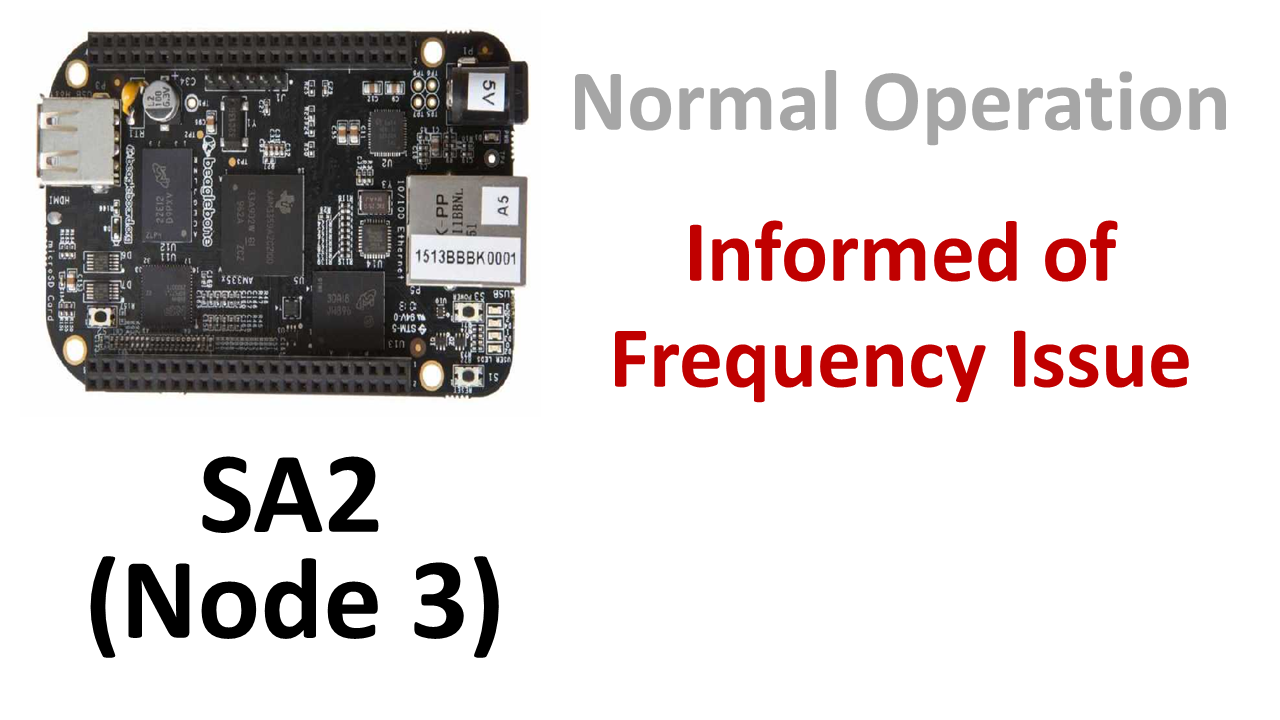
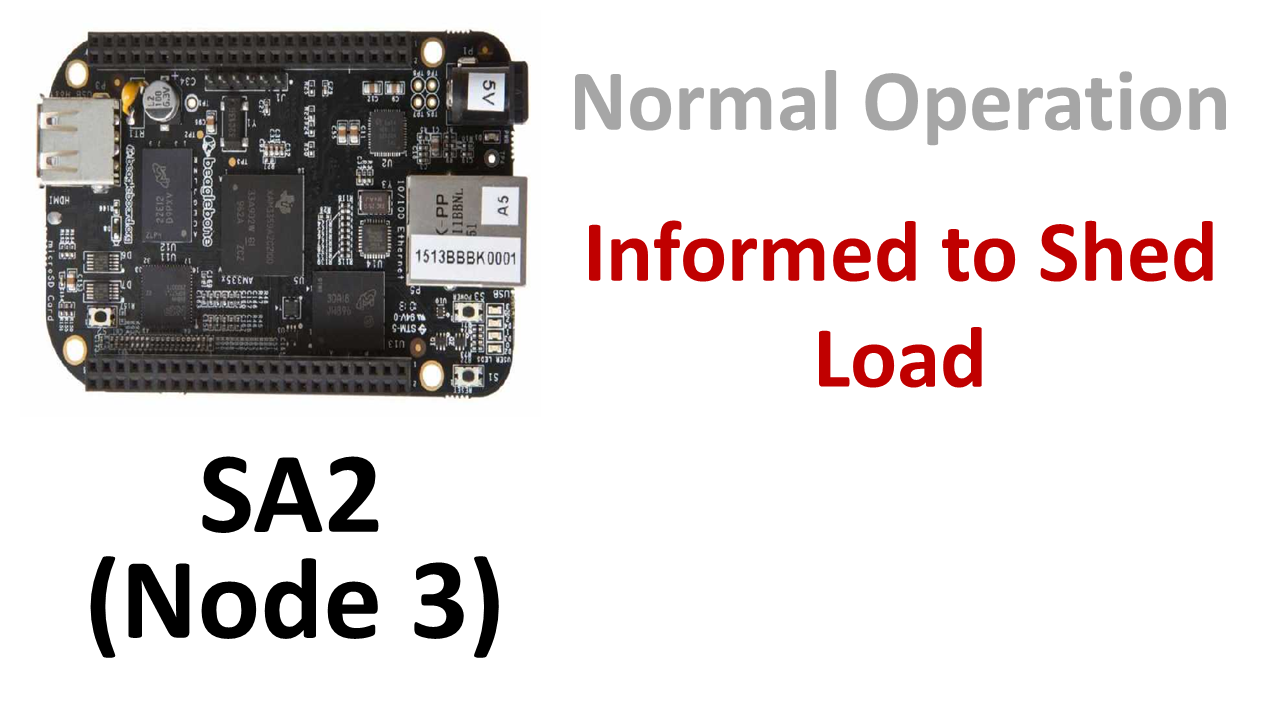
Added stuff

Changed region(s): [[0.4375, 0.3056, 0.9688, 0.3972], [0.4688, 0.4583, 0.9375, 0.55]]

diff --git a/GUI/display_graph.py b/GUI/display_graph.py
@@ -15,6 +15,11 @@ NORMAL_IMAGE = "../Data/normal_state.png"
 ALERT_IMAGE = "../Data/alert_state.png"
 
 WSU_LOGO = "Arpa_demo_nodes/WSU_Logo.png"
+
+GA1_IMAGE = "Arpa_demo_nodes/Slide1.PNG"
+SA1_IMAGE = "Arpa_demo_nodes/Slide2.PNG"
+SA2_IMAGE = "Arpa_demo_nodes/Slide3.PNG"
+
 GA1_NORMAL = "Arpa_demo_nodes/Slide1.PNG"
 GA1_ALERT = "Arpa_demo_nodes/Slide2.PNG"
 GA1_STABLE = "Arpa_demo_nodes/Slide3.PNG"
@@ -27,7 +32,7 @@ SA2_STABLE = "Arpa_demo_nodes/Slide9.PNG"
 
 LINE_DIAGRAM = "Arpa_demo_nodes/14-bus-jing.png"
 
-PLOT_SIZE = 500
+PLOT_SIZE = 5000
 TIMEOUT = 5
 
 INITIAL_VALUE = 60.0
@@ -38,7 +43,10 @@ RANGE_START = 0
 RANGE_END = 500
 RANGE_LIMIT = 10000000
 
-
+NORMAL_STATE = 0
+DETECTED_STATE = 1
+GA_CUT_STATE = 2
+SA_CUT_STATE = 3
 
 def parse_files():
 
@@ -122,6 +130,8 @@ class SpeedButton(QtGui.QWidget):
 
         self.fullPlotButton = QtGui.QPushButton("View Full Plot", self)
 
+        self.zoomButton = QtGui.QPushButton("Zoom Out", self)
+
         self.sb1 = QtGui.QRadioButton("x1")
         self.sb1.toggled.connect(lambda: self.setSpeed(1))
         self.sb2 = QtGui.QRadioButton("x0.5")
@@ -143,6 +153,7 @@ class SpeedButton(QtGui.QWidget):
         self.verticalLayout.addWidget(self.startButton)
         self.verticalLayout.addWidget(self.stopButton)
         self.verticalLayout.addWidget(self.fullPlotButton)
+        self.verticalLayout.addWidget(self.zoomButton)
         self.verticalLayout.addWidget(self.label)
         self.verticalLayout.addWidget(self.sb1)
         self.verticalLayout.addWidget(self.sb2)
@@ -157,6 +168,54 @@ class SpeedButton(QtGui.QWidget):
     def getSpeed(self):
         return self.speed
 
+class BBInfo(QtGui.QWidget):
+    def __init__(self, parent=None):
+        super(BBInfo, self).__init__(parent=parent)
+        
+        self.label1text = ""
+        self.label2text = ""
+        self.label3text = "Normal Operation"
+
+        self.layout = QtGui.QVBoxLayout(self)
+        self.label1 = QtGui.QLabel(self)
+#        self.label1.setText("Normal Operation")
+
+        self.label2 = QtGui.QLabel(self)
+#        self.label2.setText("Issue detected")
+
+        self.label3 = QtGui.QLabel(self)
+        self.label3.setStyleSheet("QLabel { color : red; }")
+        self.label3.setText(self.label3text)
+
+        self.layout.addWidget(self.label1)
+        self.layout.addWidget(self.label2)
+        self.layout.addWidget(self.label3)
+
+    def update(self, text):
+        self.label1text = self.label2text
+        self.label2text = self.label3text
+        self.label3text = text
+
+        self.label1.setText(self.label1text)
+        self.label2.setText(self.label2text)
+        self.label3.setText(self.label3text)
+
+   
+class SystemState(QtGui.QWidget):
+    def __init__(self, image, parent=None):
+        super(SystemState, self).__init__(parent=parent)
+        self.layout = QtGui.QHBoxLayout(self)
+
+        self.image = QtGui.QPixmap(image).scaledToHeight(100)
+        self.imageLabel = QtGui.QLabel(self)
+        self.imageLabel.setPixmap(self.image)
+        self.bbinfo = BBInfo()
+
+        self.layout.addWidget(self.imageLabel)
+        self.layout.addWidget(self.bbinfo)
+
+    def updateText(self, text):
+        self.bbinfo.update(text)
         
 class SystemStateWidget(QtGui.QWidget):
     def __init__(self, parent=None):
@@ -166,50 +225,32 @@ class SystemStateWidget(QtGui.QWidget):
         height = 200
 
         if (parent):
-            height = parent.frameGeometry().height() * 8
+            height = parent.frameGeometry().height() * 1.0
             print height
 
         self.isAlert = False
 
-        self.ga1Label = QtGui.QLabel(self)
-        self.ga1NormalPixmap = QtGui.QPixmap(GA1_NORMAL).scaledToHeight(height)
-        self.ga1AlertPixmap = QtGui.QPixmap(GA1_ALERT).scaledToHeight(height)
-        self.ga1StablePixmap = QtGui.QPixmap(GA1_STABLE).scaledToHeight(height)
-        self.ga1Label.setPixmap(self.ga1NormalPixmap)
-        
-        self.sa1Label = QtGui.QLabel(self)
-        self.sa1NormalPixmap = QtGui.QPixmap(SA1_NORMAL).scaledToHeight(height)
-        self.sa1AlertPixmap = QtGui.QPixmap(SA1_ALERT).scaledToHeight(height)
-        self.sa1StablePixmap = QtGui.QPixmap(SA1_STABLE).scaledToHeight(height)
-        self.sa1Label.setPixmap(self.sa1NormalPixmap)
+        self.ga1_state = SystemState(GA1_IMAGE)
+        self.sa1_state = SystemState(SA1_IMAGE)
+        self.sa2_state = SystemState(SA2_IMAGE)
 
-        self.sa2Label = QtGui.QLabel(self)
-        self.sa2NormalPixmap = QtGui.QPixmap(SA2_NORMAL).scaledToHeight(height)
-        self.sa2AlertPixmap = QtGui.QPixmap(SA2_ALERT).scaledToHeight(height)
-        self.sa2StablePixmap = QtGui.QPixmap(SA2_STABLE).scaledToHeight(height)
-        self.sa2Label.setPixmap(self.sa2NormalPixmap)
+        self.systemStateLayout.addWidget(self.ga1_state)
+        self.systemStateLayout.addWidget(self.sa1_state)
+        self.systemStateLayout.addWidget(self.sa2_state)
+        #self.systemStateLayout.addWidget(self.ga1Label)
+        #self.systemStateLayout.addWidget(self.sa1Label)
+        #self.systemStateLayout.addWidget(self.sa2Label)
 
-        self.systemStateLayout.addWidget(self.ga1Label)
-        self.systemStateLayout.addWidget(self.sa1Label)
-        self.systemStateLayout.addWidget(self.sa2Label)
 
-    def alert(self):
-        self.isAlert = True
-        self.ga1Label.setPixmap(self.ga1AlertPixmap)
-        self.sa1Label.setPixmap(self.sa1AlertPixmap)
-        self.sa2Label.setPixmap(self.sa2AlertPixmap)
+    def ga1_update(self, text):
+        self.ga1_state.updateText(text)
 
-    def reset(self):
-        self.isAlert = False
-        self.ga1Label.setPixmap(self.ga1NormalPixmap)
-        self.sa1Label.setPixmap(self.sa1NormalPixmap)
-        self.sa2Label.setPixmap(self.sa2NormalPixmap)
+    def sa1_update(self, text):
+        self.sa1_state.updateText(text)
 
-    def stable(self):
-        self.isAlert = False
-        self.ga1Label.setPixmap(self.ga1StablePixmap)
-        self.sa1Label.setPixmap(self.sa1StablePixmap)
-        self.sa2Label.setPixmap(self.sa2StablePixmap)
+    def sa2_update(self, text):
+        self.sa2_state.updateText(text)
+
 
 
 class GraphWidget(QtGui.QWidget):
@@ -219,11 +260,18 @@ class GraphWidget(QtGui.QWidget):
         self.speed = 1
         self.index = 0
 
+        self.plotSize = 500
+
+        self.isZoomed = True
+
+        self.state = NORMAL_STATE
+
         self.horizontalLayout = QtGui.QHBoxLayout(self)
 
         self.dataGenerator = DataGenerator()
         self.w1 = SpeedButton(self.dataGenerator)
         self.w1.fullPlotButton.clicked.connect(self.showFullPlot)
+        self.w1.zoomButton.clicked.connect(self.toggleZoom)
         self.w1.stopButton.clicked.connect(self.reset)
 
 #        self.w2 = Slider(-1, 1)
@@ -286,7 +334,7 @@ class GraphWidget(QtGui.QWidget):
 
         self.lineDiagramLabel = QtGui.QLabel(self)
         self.lineDiagramPixmap = QtGui.QPixmap(LINE_DIAGRAM)
-        self.lineDiagramLabel.setPixmap(self.lineDiagramPixmap)
+        self.lineDiagramLabel.setPixmap(self.lineDiagramPixmap.scaledToHeight(300))
 
         self.horizontalLayout.addWidget(self.lineDiagramLabel)
 
@@ -297,10 +345,10 @@ class GraphWidget(QtGui.QWidget):
 
     def update(self):
         normalReading, rasReading = self.dataGenerator.get()
-        self.normalReadings = self.normalReadings[1:] + [normalReading]
-        self.rasReadings = self.rasReadings[1:] + [rasReading]
-        self.normalCurve.setData(self.normalReadings)
-        self.rasCurve.setData(self.rasReadings)
+        self.normalReadings = self.normalReadings[-PLOT_SIZE:] + [normalReading]
+        self.rasReadings = self.rasReadings[-PLOT_SIZE:] + [rasReading]
+        self.normalCurve.setData(self.normalReadings[-self.plotSize:])
+        self.rasCurve.setData(self.rasReadings[-self.plotSize:])
 
         self.rangeStart = self.rangeStart + 1
         self.rangeEnd = self.rangeEnd + 1
@@ -309,7 +357,11 @@ class GraphWidget(QtGui.QWidget):
             self.rangeEnd = RANGE_END
             self.rangeCount += 1
 
-        tickList = [(200 -self.rangeStart, 200 * self.rangeCount), (400-self.rangeStart, 200 * (self.rangeCount + 1)), (600 - self.rangeStart, 200 * (self.rangeCount + 2))]
+        if self.isZoomed:
+            tickList = [(200 -self.rangeStart, 200 * self.rangeCount), (400-self.rangeStart, 200 * (self.rangeCount + 1)), (600 - self.rangeStart, 200 * (self.rangeCount + 2))]
+        else:
+            tickList = [(2000 -self.rangeStart, 2000 * self.rangeCount), (4000-self.rangeStart, 2000 * (self.rangeCount + 1)), (6000 - self.rangeStart, 2000 * (self.rangeCount + 2))]
+
         self.rasPlot.getAxis('bottom').setTicks([tickList])
         self.normalPlot.getAxis('bottom').setTicks([tickList])
 
@@ -319,11 +371,32 @@ class GraphWidget(QtGui.QWidget):
             self.speed = self.w1.getSpeed()
             self.timer.setInterval(int(TIMEOUT/self.speed))
 
-        if self.rasReadings[-1] < EMERGENCY_LIMIT:
-            self.systemStateLayout.alert()
-        else:
-            if self.systemStateLayout.isAlert:
-                self.systemStateLayout.stable()
+#HANDLE STATE CHANGES
+
+        if self.state == NORMAL_STATE:
+            if self.rasReadings[-1] < EMERGENCY_LIMIT:
+                self.systemStateLayout.ga1_update("Frequency Issue Detected")
+                self.delay_count = 250
+                self.state = DETECTED_STATE
+
+        if self.state == DETECTED_STATE:
+            self.delay_count -= 1
+            if self.delay_count == 0:
+                self.state = GA_CUT_STATE
+                self.delay_count = 250
+
+                self.systemStateLayout.ga1_update("Power deficiency estimated")
+                self.systemStateLayout.sa1_update("Informed of Issue")
+                self.systemStateLayout.sa2_update("Informed of Issue")
+
+        if self.state == GA_CUT_STATE:
+            self.delay_count -= 1
+            if self.delay_count == 0:
+                self.state = SA_CUT_STATE
+                self.systemStateLayout.ga1_update("GA1 cuts 6.456 MW")
+                self.systemStateLayout.sa1_update("SA1 cuts 6.456 MW")
+                self.systemStateLayout.sa2_update("SA2 cuts 5.465 MW")
+
             
         
     def showFullPlot(self):
@@ -337,10 +410,23 @@ class GraphWidget(QtGui.QWidget):
         self.interval = self.w1.x
 
     def reset(self):
-        self.datagenerator.stop()
-        self.systemStateWidget.reset()
+        self.dataGenerator.stop()
+        self.state = NORMAL_STATE
 
-    
+        self.systemStateLayout.ga1_update("Normal Operation")
+        self.systemStateLayout.sa1_update("Normal Operation")
+        self.systemStateLayout.sa2_update("Normal Operation")
+
+    def toggleZoom(self):
+        self.isZoomed = not self.isZoomed
+        if self.isZoomed:
+            self.w1.zoomButton.setText("Zoom Out")
+            self.plotSize = 500
+        else:
+            self.w1.zoomButton.setText("Zoom In")
+            self.plotSize = 5000
+
+
 class DemoWindow(QtGui.QWidget):
     def __init__(self, parent = None):
         super(DemoWindow, self).__init__(parent = parent)
@@ -348,14 +434,13 @@ class DemoWindow(QtGui.QWidget):
 
         self.graph = GraphWidget(self)
 
-        
         self.verticalLayout = QtGui.QVBoxLayout(self)
         self.verticalLayout.addWidget(self.graph)
 
 
         self.logoPixmap = QtGui.QPixmap(WSU_LOGO)
         self.logoLabel = QtGui.QLabel(self)
-        self.logoLabel.setPixmap(self.logoPixmap.scaledToWidth(self.frameGeometry().width() * 1.8))
+        self.logoLabel.setPixmap(self.logoPixmap.scaledToWidth(self.frameGeometry().width() * 1.6))
         self.verticalLayout.addWidget(self.logoLabel)
 
 
